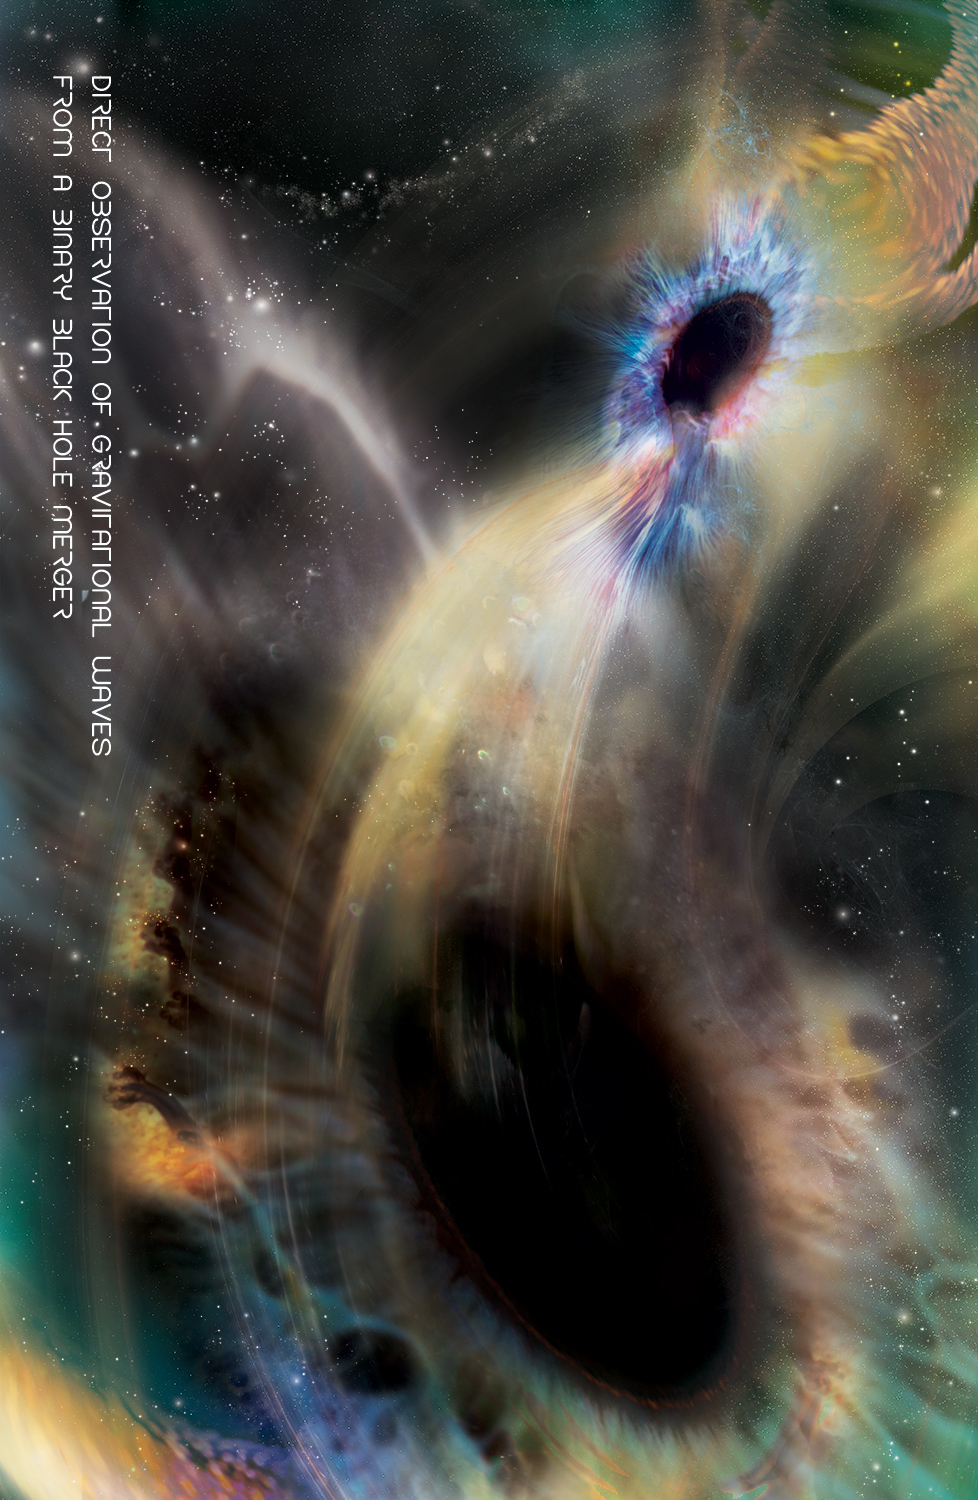
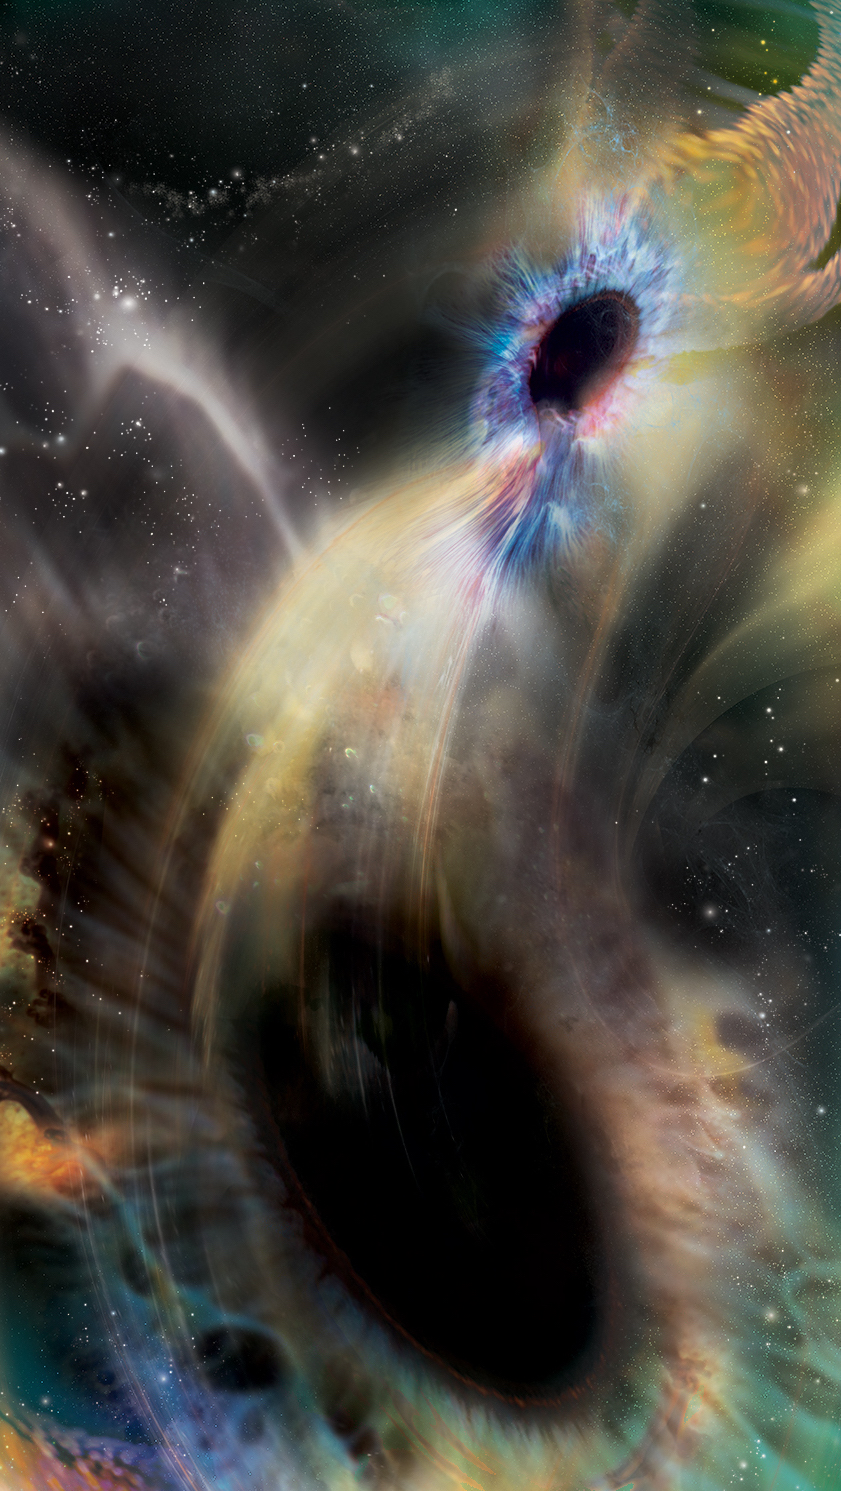
New UI design in dark theme. Uploaded some images that were tested as background. Fixed an index-out-of-bound bug when masses are 1.4 & 1.4

diff --git a/StoryboardChirp/ViewController.swift b/StoryboardChirp/ViewController.swift
@@ -36,6 +36,12 @@ class ViewController: UIViewController, ChartViewDelegate {
 //
 //    @IBOutlet weak var mass2Label: UILabel!
     
+    @IBOutlet weak var mass1Title: UILabel!
+    
+    @IBOutlet weak var mass2Title: UILabel!
+    
+    @IBOutlet weak var animationSpeedTitle: UILabel!
+    
     @IBOutlet weak var mass1TextField: UITextField!
     
     @IBOutlet weak var mass2TextField: UITextField!
@@ -65,6 +71,14 @@ class ViewController: UIViewController, ChartViewDelegate {
     @IBOutlet weak var waveformInfo: UIButton!
     
     @IBOutlet weak var freqInfo: UIButton!
+    
+    @IBOutlet weak var spectroInfo: UIButton!
+    
+    @IBOutlet weak var audioInfo: UIButton!
+    
+    @IBOutlet weak var animInfo: UIButton!
+    
+    @IBOutlet weak var spiralInfo: UIButton!
     
     //    @IBOutlet weak var playButton: UIButton!
     
@@ -256,7 +270,24 @@ class ViewController: UIViewController, ChartViewDelegate {
         
         setLightTheme()
         
-
+        setupButtons()
+        
+    }
+    
+    func setupButtons() {
+        for bttn in [waveformButton, freqButton, spectroButton, audioButton, animButton, spiralButton] {
+            // set title font size
+            bttn?.titleLabel?.font = UIFont.systemFont(ofSize: 22)
+            
+            // set up shadows
+            bttn?.layer.shadowColor = UIColor.black.cgColor
+            bttn?.layer.shadowOffset = CGSize(width: 0, height: 4)
+            bttn?.layer.shadowOpacity = 1.0
+            bttn?.layer.shadowRadius = 2.0
+            bttn?.layer.masksToBounds = false
+            bttn?.layer.cornerRadius = 4.0
+        }
+        
     }
 
     @IBAction func mass1Change(_ sender: Any) {
@@ -357,8 +388,8 @@ class ViewController: UIViewController, ChartViewDelegate {
     
     func checkMassChange() {
             if (mass1 != Double(mass1Slider.value) || mass2 != Double(mass2Slider.value)) {
-                mass1 = Double(mass1Slider.value)
-                mass2 = Double(mass2Slider.value)
+                mass1 = roundToTwoDecimalPlaces(num: Double(mass1Slider.value))
+                mass2 = roundToTwoDecimalPlaces(num: Double(mass2Slider.value))
                 removeViews()
                 
                 // invalidate the timer if it's working
@@ -412,7 +443,8 @@ class ViewController: UIViewController, ChartViewDelegate {
     }
     
     @IBAction func colorThemeButtonPress(_ sender: Any) {
-        if (isLightTheme) {
+        isLightTheme = !isLightTheme
+        if (!isLightTheme) {
             colorThemeButton.setImage(darkThemeImage, for: .normal)
             setDarkTheme()
             print("image set to moon")
@@ -421,7 +453,6 @@ class ViewController: UIViewController, ChartViewDelegate {
             setLightTheme()
             print("image set to sun")
         }
-        isLightTheme = !isLightTheme
         print("color theme button pressed, light theme is \(isLightTheme)")
     }
     
@@ -430,25 +461,96 @@ class ViewController: UIViewController, ChartViewDelegate {
         let lightPurple = UIColor(red: 75/255, green: 50/255, blue: 130/255, alpha: 1.0)
 //        view.backgroundColor = darkPurple
 //        contentView.backgroundColor = darkPurple
-        let translucentGray = UIColor(red: 1, green: 1, blue: 1, alpha: 0.7)
-        view.backgroundColor = UIColor.clear
-        contentView.backgroundColor = UIColor.clear
-        sliderRegionView.backgroundColor = translucentGray
-        windowFrame.backgroundColor = UIColor.white
+        let translucentGray = UIColor(red: 1, green: 1, blue: 1, alpha: 0.8)
+        let translucentDarkGray = UIColor(red: 0.1, green: 0.1, blue: 0.1, alpha: 0.85)
+        view.backgroundColor = .clear
+        contentView.backgroundColor = .clear
+        
+        // slider region
+        sliderRegionView.backgroundColor = translucentDarkGray
+        
+        mass1Title.textColor = .white
+        mass2Title.textColor = .white
+        animationSpeedTitle.textColor = .white
+        
+        for txtfld in [mass1TextField, mass2TextField] {
+            txtfld?.backgroundColor = UIColor(red: 0.3, green: 0.3, blue: 0.3, alpha: 1)
+            txtfld?.textColor = UIColor(red: 0.8, green: 0.8, blue: 0.8, alpha: 1)
+        }
+        
+        speedLabel.backgroundColor = UIColor(red: 0.3, green: 0.3, blue: 0.3, alpha: 1)
+        speedLabel.textColor = UIColor(red: 0.8, green: 0.8, blue: 0.8, alpha: 1)
+        
+        // slider region ends
+        
+        windowFrame.backgroundColor = translucentGray
+        
+
+        changeThemeButton()
+
         
         setBackgroundImageView()
         
-        colorThemeButton.tintColor = UIColor.white
+        colorThemeButton.tintColor = .white
     }
     
     func setLightTheme() {
-        view.backgroundColor = UIColor.white
-        contentView.backgroundColor = UIColor.white
-        sliderRegionView.backgroundColor = UIColor.systemGray5
+        view.backgroundColor = .white
+        contentView.backgroundColor = .white
+        
+        // slider region
+        sliderRegionView.backgroundColor = .systemGray5
+        
+        mass1Title.textColor = .black
+        mass2Title.textColor = .black
+        animationSpeedTitle.textColor = .black
+        
+        for txtfld in [mass1TextField, mass2TextField] {
+            txtfld?.backgroundColor = .white
+            txtfld?.textColor = .black
+        }
+        speedLabel.backgroundColor = .white
+        speedLabel.textColor = .black
+        // slider region ends
+        
+        changeThemeButton()
         
         colorThemeButton.tintColor = UIColor.systemBlue
     }
     
+    func changeThemeButton() {
+        var buttonBackground: UIColor!
+        var buttonForeground: UIColor!
+        var infoTint: UIColor!
+        
+        if isLightTheme {
+            buttonBackground = .systemBlue
+            buttonForeground = .white
+            infoTint = .darkGray
+        } else {
+            buttonBackground = UIColor(red: 0.8, green: 0.8, blue: 0.8, alpha: 1)
+            buttonForeground = UIColor(red: 0.3, green: 0.3, blue: 0.3, alpha: 1)
+            
+//            buttonBackground = UIColor(red: 0.2, green: 0.2, blue: 0.2, alpha: 1)
+//            buttonForeground = UIColor(red: 0.8, green: 0.8, blue: 0.8, alpha: 1)
+            
+            infoTint = UIColor(red: 1, green: 1, blue: 1, alpha: 0.7)
+        }
+        
+        for bttn in [waveformButton, freqButton, spectroButton, audioButton, animButton, spiralButton] {
+            bttn?.configuration?.baseBackgroundColor = buttonBackground
+            bttn?.configuration?.baseForegroundColor = buttonForeground
+        }
+        
+        for infobttn in [waveformInfo, freqInfo, spectroInfo, audioInfo, animInfo, spiralInfo] {
+            infobttn?.tintColor = infoTint
+        }
+        
+    }
+    
+//    func changeThemeSliderRegion() {
+//
+//    }
 
     @objc func keyboardWillShow(notification:NSNotification) {
         
@@ -465,7 +567,8 @@ class ViewController: UIViewController, ChartViewDelegate {
     
     func setBackgroundImageView() {
 
-        backgroundImageView.image = UIImage(named: "gw_artist_image.jpeg")
+//        backgroundImageView.image = UIImage(named: "gw_artist_image.jpeg")
+        backgroundImageView.image = UIImage(named: "panorama_edited.png")
         backgroundImageView.contentMode =  UIView.ContentMode.scaleAspectFill
 
     }

diff --git a/StoryboardChirp/VC_Collision.swift b/StoryboardChirp/VC_Collision.swift
@@ -85,7 +85,12 @@ extension ViewController {
         // make the animation start at the last 10 seconds
         var samp: Int = max(1, lastSamp - Int(10 / 0.01) * animationdownSample)
         print("animation starts at index \(samp)")
-
+        print("mass1 is \(mass1), mass2 is \(mass2)")
+        // brutally fixing an index-out-of-bound bug when masses are 1.4 & 1.4
+        if (mass1 == 1.4 && mass2 == 1.4) {
+            lastSamp -= 1
+            print("brutal solution triggered! New lastSamp: \(lastSamp)")
+        }
         
         let dt = testChirp.getDT()
         
@@ -100,7 +105,8 @@ extension ViewController {
                 // Invalidate the timer to stop the animation
                 //print("collide!")
                 print("current samp: ", samp)
-                print("final Dist: ", self!.a[samp] / self!.scaleDown)
+//                print("a size: \(self!.a.count)")
+//                print("final Dist: ", self!.a[samp] / self!.scaleDown)
                 self!.timer?.invalidate()
                 
                 self!.initPress.removeValue(forKey: currInitCount)
@@ -109,38 +115,39 @@ extension ViewController {
 //                let alert = UIAlertController(title: "Collision", message: "The celestial bodies have collided!", preferredStyle: .alert)
 //                alert.addAction(UIAlertAction(title: "OK", style: .default, handler: nil))
 //                self?.present(alert, animated: true, completion: nil)
+            } else {
+                
+                
+                // Update the current time
+                self?.currentTime += 0.01
+                
+                let deltaphi: Double = 2 * Double.pi * (self!.freq[samp - 1] + self!.freq[samp]) * (dt * Double(self!.animationdownSample))
+                
+                phi1 += deltaphi
+                phi2 += deltaphi
+                
+                // update new distances to center
+                let distToCenter1 = self!.a[samp] / self!.scaleDown * self!.mass2 / (self!.mass1 + self!.mass2)
+                let distToCenter2 = self!.a[samp] / self!.scaleDown * self!.mass1 / (self!.mass1 + self!.mass2)
+                
+                
+                // update the positions
+                self!.x1 = distToCenter1 * cos(phi1);
+                self!.y1 = distToCenter1 * sin(phi1);
+                self!.x2 = distToCenter2 * cos(phi2);
+                self!.y2 = distToCenter2 * sin(phi2);
+                
+                
+                // Update the positions of the views that represent the celestial bodies on the screen
+                
+                //            self?.body1.center = CGPoint(x: self!.view.bounds.midX + CGFloat(self?.x1 ?? 0.0), y: self!.centerFromTop + CGFloat(self?.y1 ?? 0.0))
+                //            self?.body2.center = CGPoint(x: self!.view.bounds.midX + CGFloat(self?.x2 ?? 0.0), y: self!.centerFromTop + CGFloat(self?.y2 ?? 0.0))
+                self?.body1.center = CGPoint(x: self!.windowFrame.bounds.midX + CGFloat(self!.x1), y: self!.windowFrame.bounds.midY + CGFloat(self!.y1))
+                self?.body2.center = CGPoint(x: self!.windowFrame.bounds.midX + CGFloat(self!.x2), y: self!.windowFrame.bounds.midY + CGFloat(self!.y2))
+                
+                
+                samp += self!.animationdownSample
             }
-            
-            
-            // Update the current time
-            self?.currentTime += 0.01
-            
-            let deltaphi: Double = 2 * Double.pi * (self!.freq[samp - 1] + self!.freq[samp]) * (dt * Double(self!.animationdownSample))
-            
-            phi1 += deltaphi
-            phi2 += deltaphi
-            
-            // update new distances to center
-            let distToCenter1 = self!.a[samp] / self!.scaleDown * self!.mass2 / (self!.mass1 + self!.mass2)
-            let distToCenter2 = self!.a[samp] / self!.scaleDown * self!.mass1 / (self!.mass1 + self!.mass2)
-
-            
-            // update the positions
-            self!.x1 = distToCenter1 * cos(phi1);
-            self!.y1 = distToCenter1 * sin(phi1);
-            self!.x2 = distToCenter2 * cos(phi2);
-            self!.y2 = distToCenter2 * sin(phi2);
-            
-            
-            // Update the positions of the views that represent the celestial bodies on the screen
-            
-//            self?.body1.center = CGPoint(x: self!.view.bounds.midX + CGFloat(self?.x1 ?? 0.0), y: self!.centerFromTop + CGFloat(self?.y1 ?? 0.0))
-//            self?.body2.center = CGPoint(x: self!.view.bounds.midX + CGFloat(self?.x2 ?? 0.0), y: self!.centerFromTop + CGFloat(self?.y2 ?? 0.0))
-            self?.body1.center = CGPoint(x: self!.windowFrame.bounds.midX + CGFloat(self!.x1), y: self!.windowFrame.bounds.midY + CGFloat(self!.y1))
-            self?.body2.center = CGPoint(x: self!.windowFrame.bounds.midX + CGFloat(self!.x2), y: self!.windowFrame.bounds.midY + CGFloat(self!.y2))
-            
-            
-            samp += self!.animationdownSample
         }
         
     }
